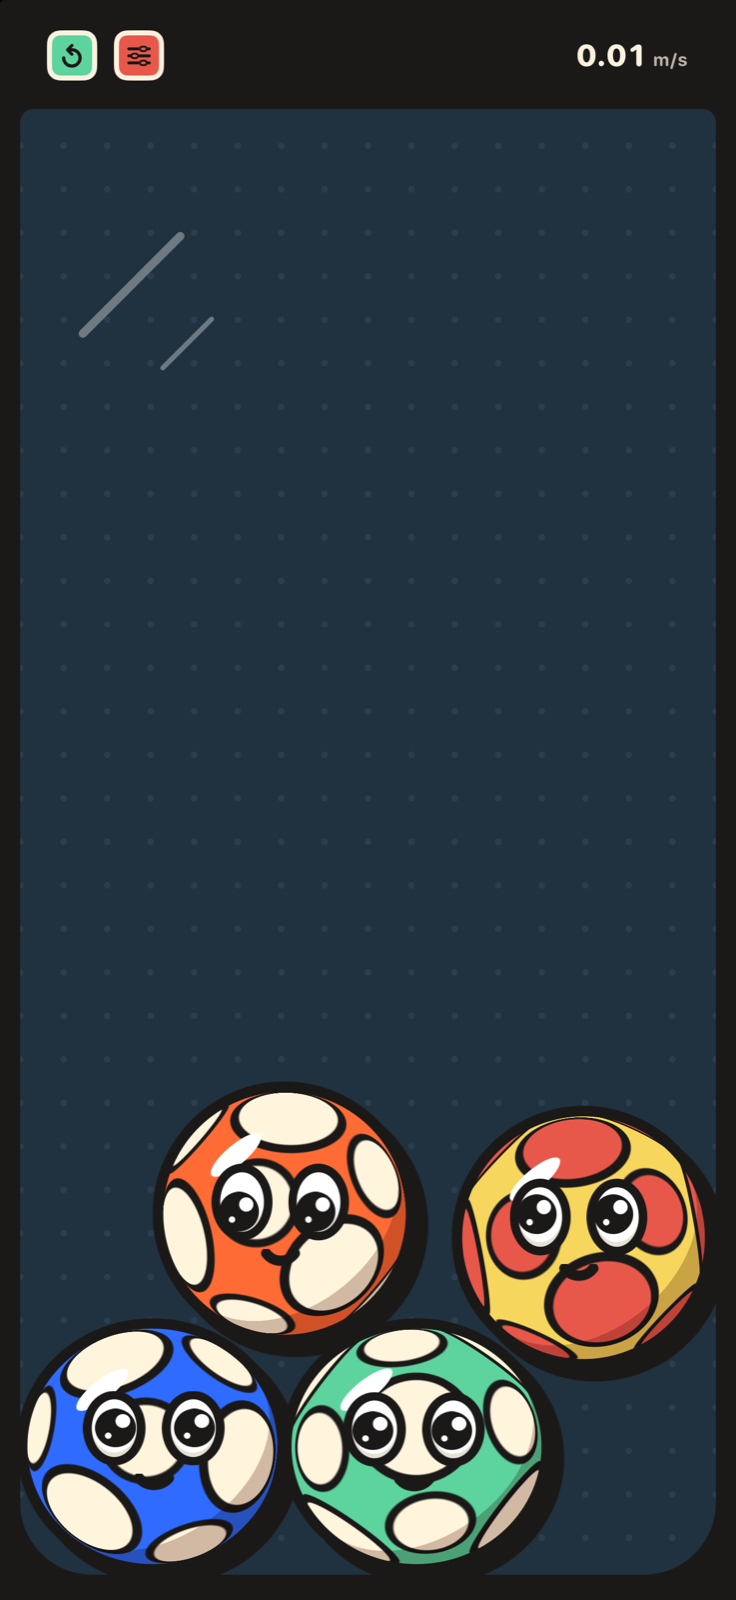
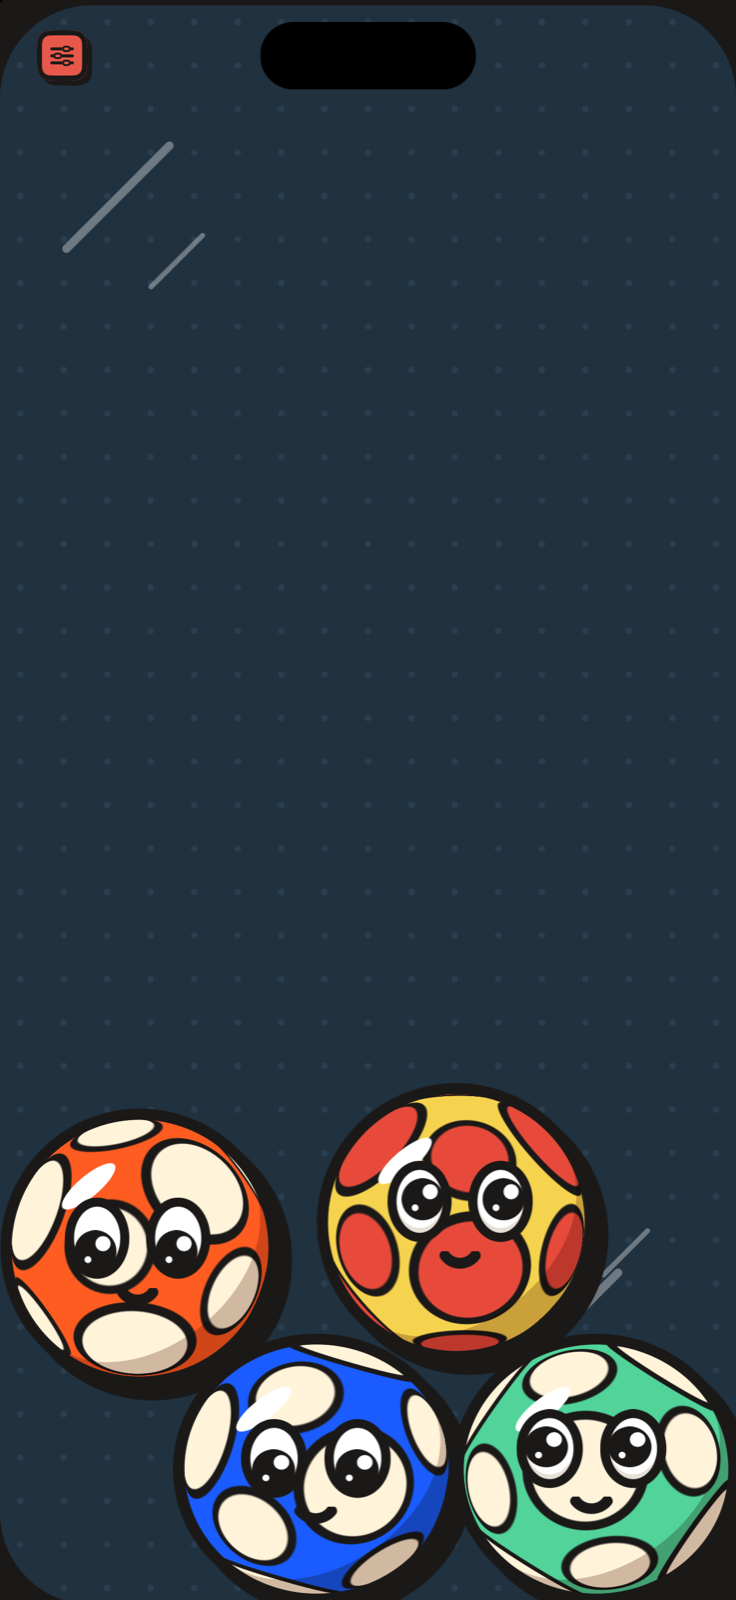
LilBounce pages: the owner's real iPhone shots, the hungry island, Sound on top of settings
- Gallery and og:image: Hungry.png and Shake.png (real iPhone) and a new Night.png; the old RealPit and Felt shots (old top band) are gone.
- Features, FAQ and support: the Dynamic Island eats a ball you push into it; Sound is the first switch; Drop the balls is in settings; Mix of 12 is the default.

diff --git a/lilbounce/index.html b/lilbounce/index.html
@@ -15,7 +15,7 @@
     <meta property="og:description" content="Tilt, shake, tap and swipe. Real physics, cartoon balls with faces, and a thump in your hand every time one lands.">
     <meta property="og:url" content="https://lilstudio.app/lilbounce/">
     <meta property="og:type" content="website">
-    <meta property="og:image" content="https://lilstudio.app/lilbounce/screenshots/RealPit.png">
+    <meta property="og:image" content="https://lilstudio.app/lilbounce/screenshots/Hungry.png">
 
     <link rel="preconnect" href="https://fonts.googleapis.com">
     <link rel="preconnect" href="https://fonts.gstatic.com" crossorigin>
@@ -1629,11 +1629,11 @@
             </div>
             <div class="feature-card fade-in stagger-4">
                 <div class="feature-icon"><svg width="24" height="24" fill="none" stroke="currentColor" stroke-width="2.5" viewBox="0 0 24 24"><circle cx="12" cy="12" r="9"/><circle cx="9" cy="10" r="1.2" fill="currentColor"/><circle cx="15" cy="10" r="1.2" fill="currentColor"/><path d="M8.5 14.5c1.8 1.8 5.2 1.8 7 0"/></svg></div>
-                <div><h3>They have faces</h3><p>They blink, watch your finger, squint on hard hits, get dizzy from spinning, and nod off when you leave them alone.</p></div>
+                <div><h3>They have faces</h3><p>They blink, watch your finger, squint on hard hits, get dizzy from spinning, nod off when you leave them alone, and look terrified near a hungry island.</p></div>
             </div>
             <div class="feature-card fade-in stagger-1">
                 <div class="feature-icon"><svg width="24" height="24" fill="none" stroke="currentColor" stroke-width="2.5" viewBox="0 0 24 24"><rect x="3" y="3" width="18" height="18" rx="3"/><circle cx="9" cy="9" r="1.5"/><circle cx="15" cy="15" r="1.5"/><circle cx="15" cy="8" r="1.5"/></svg></div>
-                <div><h3>The whole screen</h3><p>The balls bounce off the Dynamic Island and roll around it, edge to edge. Pick a room too: slippery ice, soft felt or a springy bouncy one.</p></div>
+                <div><h3>A hungry island</h3><p>The balls bounce off the Dynamic Island, edge to edge. Pick one up and the island turns into a panting dog's mouth that leans toward it. Push it in and it gets eaten.</p></div>
             </div>
             <div class="feature-card fade-in stagger-2">
                 <div class="feature-icon"><svg width="24" height="24" fill="none" stroke="currentColor" stroke-width="2.5" viewBox="0 0 24 24"><path d="M2 12h3l2-5 3 10 3-14 3 12 2-3h4"/></svg></div>
@@ -1649,13 +1649,13 @@
         </div>
         <div class="gallery-grid">
             <div class="gallery-item fade-in stagger-1">
-                <img src="screenshots/RealPit.png" alt="Thirty cartoon balls with faces bouncing around mid-shake, on a real iPhone" width="738" height="1600" loading="lazy">
-                <h3>A ball pit</h3>
-                <p>Thirty balls mid-shake, straight off a real iPhone.</p>
+                <img src="screenshots/Hungry.png" alt="A mix of cartoon balls with faces under the Dynamic Island, which sticks out a dog's tongue, on a real iPhone" width="738" height="1600" loading="lazy">
+                <h3>A hungry island</h3>
+                <p>Pick a ball up and the island gets hungry. Straight off a real iPhone.</p>
             </div>
             <div class="gallery-item fade-in stagger-2">
-                <img src="screenshots/Felt.png" alt="Three basketballs with faces in the green felt room" width="736" height="1600" loading="lazy">
-                <h3>Basketballs on felt</h3>
+                <img src="screenshots/Shake.png" alt="Striped superballs with faces flying around mid-shake, on a real iPhone" width="738" height="1600" loading="lazy">
+                <h3>Superballs mid-shake</h3>
                 <p>Every ball and room plays differently.</p>
             </div>
             <div class="gallery-item fade-in stagger-3">
@@ -1685,7 +1685,7 @@
             </div>
             <div class="faq-item fade-in stagger-1">
                 <h3>The taps feel too strong.</h3>
-                <p>Turn them down in settings (the coral button) under Feel &rarr; Haptic strength, or switch haptics or sound off.</p>
+                <p>Turn them down in settings (the coral button) under Feel &rarr; Haptic strength, or switch haptics off. Sound is the first switch in settings.</p>
             </div>
             <div class="faq-item fade-in stagger-2">
                 <h3>Can I share a clip?</h3>

diff --git a/lilbounce/support.html b/lilbounce/support.html
@@ -52,14 +52,16 @@
   <li><strong>Tilt</strong> the device and the balls roll the way gravity points. <strong>Shake</strong> it to rattle them around.</li>
   <li><strong>Tap</strong> a ball to kick it. <strong>Swipe</strong> into a ball from outside it to kick it the way you swiped.</li>
   <li><strong>Touch a ball and keep your finger on it</strong> to hold it, anywhere on it, even in mid-air. Drag to move it, and let go to throw it. Each finger can hold its own ball.</li>
-  <li>The green button drops the balls again. The coral button opens the settings.</li>
+  <li><strong>Pick a ball up</strong> and the Dynamic Island turns into a hungry dog's mouth. Push the ball into it and it gets eaten. Balls that are kicked or thrown at it just bounce off.</li>
+  <li>The coral button opens the settings. <strong>Drop the balls</strong>, at the top of the Ball section, drops them again and brings back any that were eaten.</li>
 </ul>
 
 <h2>Settings</h2>
 <ul>
-  <li><strong>Ball:</strong> choose one of seven balls, the size (S, M, L, or Mix for every ball its own size), how many (up to 30 small ones), the face, and the room (cream, marigold, ice, felt or bouncy).</li>
+  <li><strong>Sound:</strong> the first switch, at the top.</li>
+  <li><strong>Ball:</strong> choose one of seven balls, the size (S, M, L, or Mix for every ball its own size, the default), how many (up to 30 small ones; 12 by default), the face, and the room (cream, marigold, ice, felt or bouncy).</li>
   <li><strong>Physics:</strong> gravity, bounciness, grip, air drag and more. Changes apply live. <strong>Reset to defaults</strong> at the bottom puts everything back.</li>
-  <li><strong>Feel:</strong> haptics and their strength, sound, impact effects, motion smear and screen jiggle.</li>
+  <li><strong>Feel:</strong> haptics and their strength, impact effects, motion smear and screen jiggle.</li>
   <li><strong>Display:</strong> night mode (off, on, or match your system setting), and <strong>Use the notch area</strong>: on by default, the balls play all the way up around the Dynamic Island or notch, which they bounce off like a wall. Turn it off for a band across the top.</li>
   <li><strong>Replay:</strong> share a video of the last 10 seconds.</li>
 </ul>
